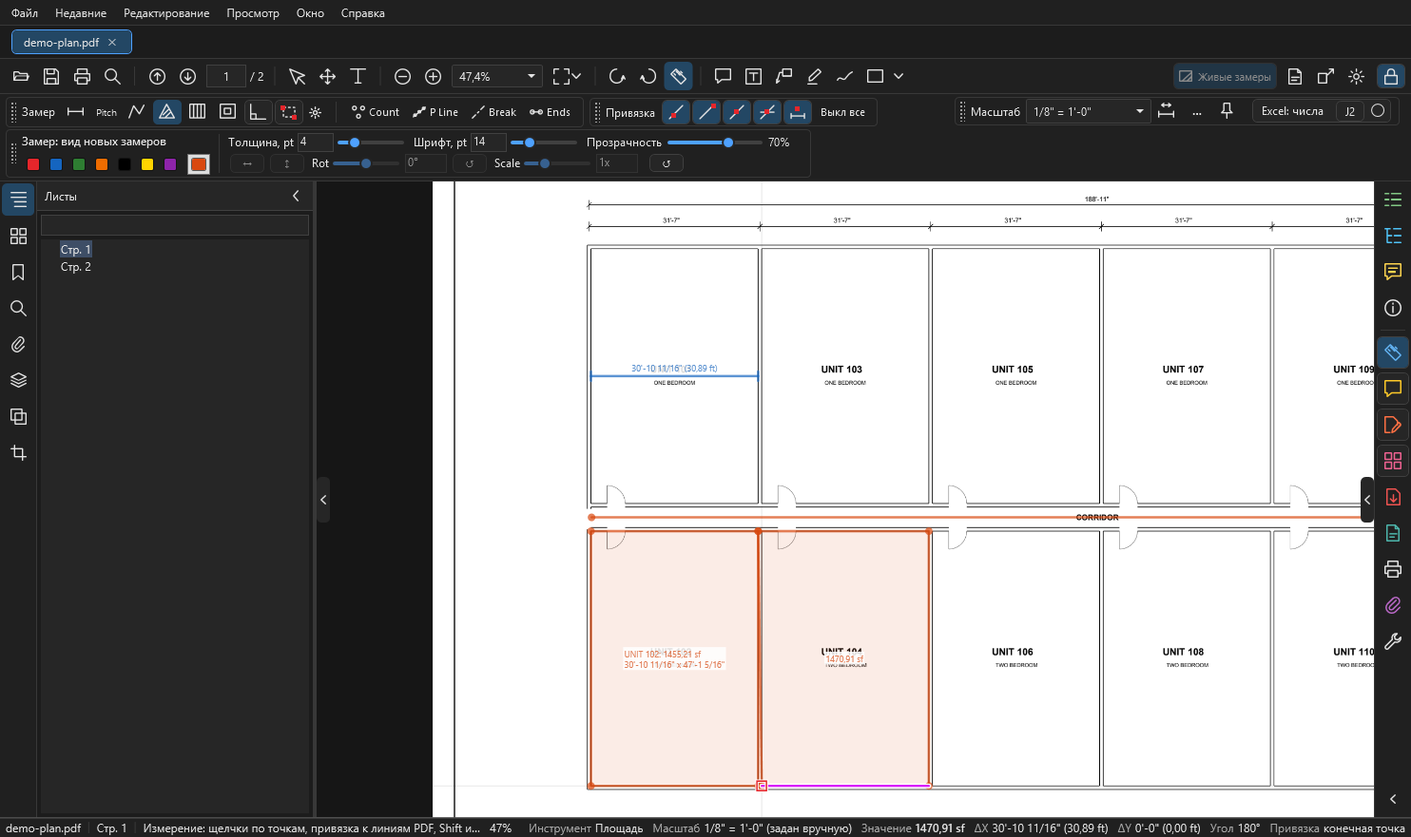
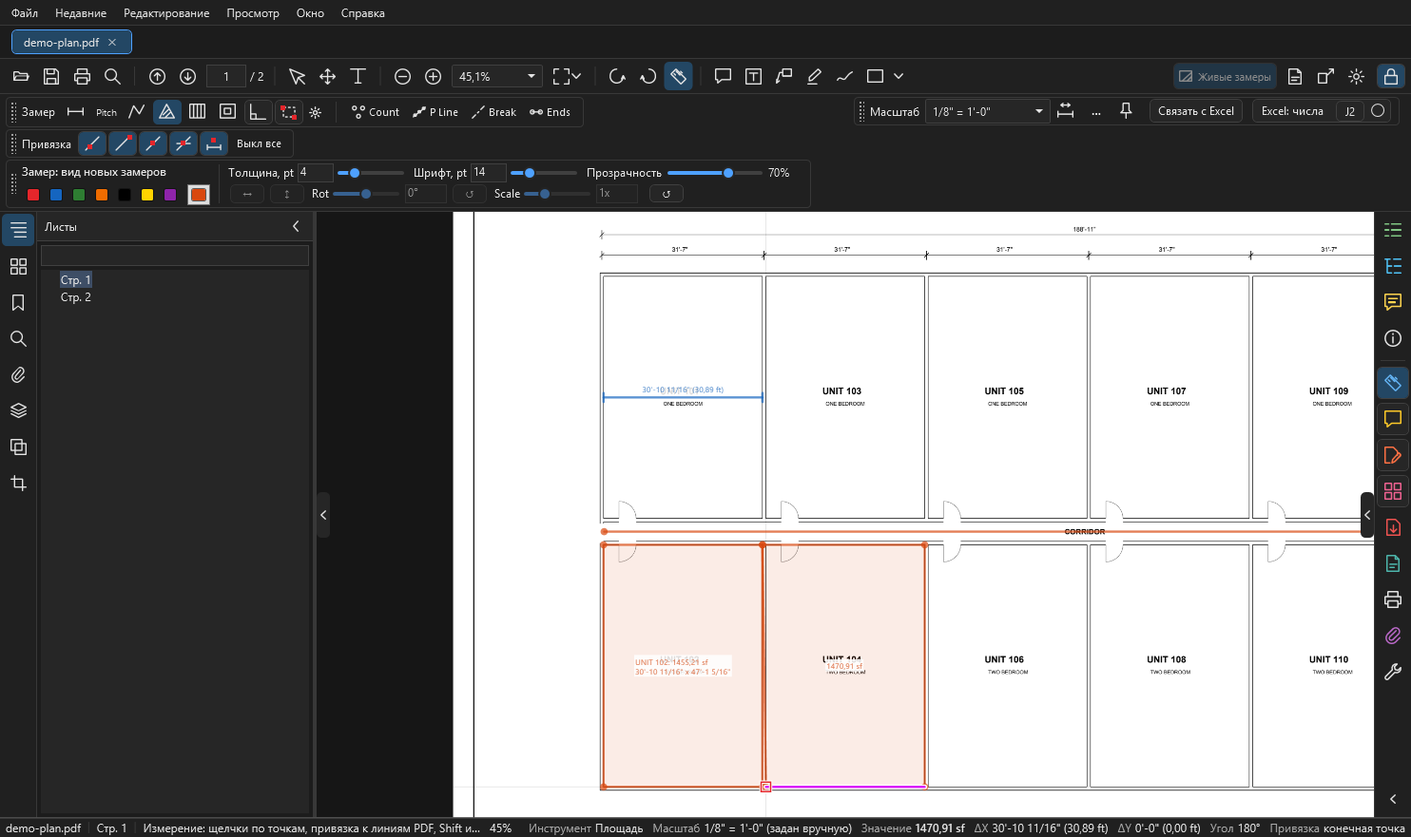
OurPDF 0.9.26: Link to Excel page, selection look
New page Связь с Excel with a nav entry: how to link a legend row to a cell, open and closed
books, the four states, joists, the list, removing links before a client gets the book. Row in
"what goes where", the hidden markups table, settings, shortcuts, where things live. The selection
look names the blue dashed box. Pictures with the Link button or the box retaken on the demo plan,
books in them made up.

diff --git a/docs/ourpdf/excel-link.md b/docs/ourpdf/excel-link.md
@@ -1,0 +1,89 @@
+# Связь с Excel
+
+Число одной строки легенды стоит в одной ячейке книги и само обновляется, когда меняются замеры. Здесь: как связать, что происходит с открытой и закрытой книгой, четыре состояния и что сделать перед сдачей книги клиенту. Обычная разовая вставка описана на странице [Измерения](measure.md#excel).
+
+!!! warning "Только в одну сторону, из OurPDF в Excel"
+    Правка ячейки замер не меняет. Открытую книгу программа никогда не сохраняет: сохраняете вы, как после обычной вставки. Пока вы не нажали "Связать с Excel", OurPDF к Excel не обращается.
+
+<figure markdown>
+  ![Кнопка Связать с Excel и значки на строках легенды](../assets/images/ourpdf/link-window.png)
+  <figcaption markdown="span">Выбрана строка Corridor. Кнопка "Связать с Excel" стоит рядом с кнопкой Excel, у связанных строк легенды значок цепочки. Книги здесь вымышленные.</figcaption>
+</figure>
+
+## Как связать { #how }
+
+1. В OurPDF выделите одну строку легенды: щелчком по строке или по её замеру на листе.
+2. В Excel откройте сохранённую книгу и щёлкните нужную ячейку.
+3. В OurPDF нажмите **Связать с Excel**. Число сразу появится в ячейке.
+
+Полезно знать:
+
+- Кнопка стоит в блоке "Масштаб", при открытом замке приходит в блоке вида вместе с выделением.
+- Та же команда: правая кнопка по строке легенды, меню `Экспорт PDF` на полосе справа. Клавиши по умолчанию нет, её можно [назначить](shortcuts.md#remap).
+- Число такое же, как при экспорте "только числа": те же единицы, знаки и J2.
+- Если в ячейке уже что-то есть, программа сначала спросит.
+
+## Как обновляется { #update }
+
+| Что случилось | Что происходит |
+| --- | --- |
+| книга открыта | ячейка обновляется сразу, после короткой паузы. Лист и выделение в Excel остаются на месте. Запись очищает отмену (++ctrl+z++) самого Excel |
+| книга закрыта | связь ждёт в состоянии "Ожидает". Число записывается по ++ctrl+s++ или по команде "Обновить ссылки": в скрытом Excel с выключенными макросами, с резервной копией книги в папке программы, `%LOCALAPPDATA%\OurPDF\excel-link-backups`. Рядом с книгой ничего не появляется |
+| вставили строки в Excel | связь держится за скрытое имя в книге, оно идёт за ячейкой. Адрес программа не угадывает |
+| переименовали строку легенды или сменили ей цвет | связь идёт за ней |
+| скрыли замеры в легенде | **они входят в число**, как и в итог легенды: скрыть значит только убрать с экрана |
+| закрыли и открыли файл | связи на месте. Они хранятся в профиле, а не в PDF, не шаг ++ctrl+z++ и не несохранённое изменение. Ответ "Нет" при закрытии файла их не отбрасывает |
+
+## Состояния { #states }
+
+<figure markdown>
+  ![Значки связей на строках легенды](../assets/images/ourpdf/link-legend.png){ width="420" }
+  <figcaption markdown="span">Цвет значка показывает худшее состояние связей строки. Подсказка значка: книга, лист, ячейка, последнее число, причина.</figcaption>
+</figure>
+
+| Состояние | Значок | Что значит | Что делать |
+| --- | --- | --- | --- |
+| **Связано** (Linked) | цвета текста | в ячейке число этой строки | ничего |
+| **Ожидает** (Pending) | жёлтый | новое число ещё не записано: книга закрыта, Excel занят или правится ячейка, файл занят, только для чтения или пропал, у строки нет масштаба | закрытая книга: ++ctrl+s++ или "Обновить ссылки". Занятый Excel: программа повторит сама. Файл пропал: "Указать новый путь...". Причина написана в списке связей |
+| **Конфликт** (Conflict) | оранжевый | ячейку изменили вручную, программа её не трогает | "Перезаписать ячейку" или "Оставить ячейку и разорвать" |
+| **Обрыв** (Broken) | красный | строку легенды удалили, ячейку удалили (`#REF!`) или у joists стало другое число длин. Ничего не пишется, ячейка остаётся как есть | удалённую строку вернёт ++ctrl+z++. Иначе разорвите связь и свяжите заново |
+
+## Joists: два числа { #joists }
+
+У строки joists на каждую длину два числа: штуки и длина. "Связать с Excel" спрашивает, какое идёт в эту ячейку; если длин несколько, в списке есть и итоги. Для второго числа щёлкните другую ячейку и нажмите кнопку ещё раз.
+
+## Все связи файла { #list }
+
+<figure markdown>
+  ![Окно Ссылки Excel](../assets/images/ourpdf/link-list.png)
+  <figcaption markdown="span">"Все ссылки Excel...": где каждая связь и в каком она состоянии. Две кнопки конфликта видны, когда выбрана такая строка.</figcaption>
+</figure>
+
+| Кнопка | Что делает |
+| --- | --- |
+| Перейти к ячейке | показывает ячейку в Excel, закрытую книгу сначала открывает |
+| Разорвать | связи больше нет, число остаётся в ячейке. Если книга закрыта, её скрытое имя останется до "Удалить все ссылки" |
+| Обновить ссылки | записывает всё, что ждёт, также в закрытые книги |
+| Указать новый путь... | книгу перенесли или переименовали |
+| Удалить все ссылки из этой книги... | см. ниже |
+
+!!! warning "Перед сдачей книги клиенту"
+    "Все ссылки Excel...", строка этой книги, **"Удалить все ссылки из этой книги..."**. Числа остаются в ячейках, скрытые имена уходят, также сделанные другими файлами и OurPlanCore.
+
+## Настройки { #settings }
+
+Настройки, раздел "Ссылки на Excel":
+
+| Настройка | По умолчанию |
+| --- | --- |
+| Открытую книгу обновлять сразу | вкл |
+| Закрытую книгу обновлять при ++ctrl+s++ | вкл |
+| Резервных копий на книгу | 5, от 1 до 50 |
+| Пауза перед записью в открытую книгу | 800 мс, от 100 до 10000 |
+| Предел времени для закрытой книги | 180 с, от 15 до 1800 |
+
+## См. также
+
+- [Измерения](measure.md#excel): разовая вставка в открытую книгу и J2
+- [Легенда](measure.md#legend): строки, скрытие, переименование
+- [Что куда попадает](comments-save.md#where)

diff --git a/docs/ourpdf/index.md b/docs/ourpdf/index.md
@@ -1,6 +1,6 @@
 # OurPDF
 
-OurPDF - программа для просмотра и разметки строительных чертежей в PDF. Окно и комментарии устроены как в Adobe Acrobat, а замеры как в OurPlanCore: те же клавиши `R`, `L`, `A`, `J`, `X`, Box двумя углами, Tab по линии чертежа, вырезы из площади и joists. Описание сверено с OurPDF 0.9.25 (ноябрь 2026).
+OurPDF - программа для просмотра и разметки строительных чертежей в PDF. Окно и комментарии устроены как в Adobe Acrobat, а замеры как в OurPlanCore: те же клавиши `R`, `L`, `A`, `J`, `X`, Box двумя углами, Tab по линии чертежа, вырезы из площади и joists. Описание сверено с OurPDF 0.9.26 (ноябрь 2026).
 
 <figure markdown>
   ![Окно OurPDF с открытым демо-листом](../assets/images/ourpdf/window.png)
@@ -10,7 +10,7 @@ OurPDF - программа для просмотра и разметки стр
 ## Что умеет и чего не делает
 
 - Открывает PDF вкладками, листает, ищет текст, показывает слои, закладки и вложения.
-- Меряет длины, ломаные, площади с вырезами, joists / rafters и штуки (Count) по масштабу листа; итог виден на листе, в легенде, в списке и выгружается в Excel.
+- Меряет длины, ломаные, площади с вырезами, joists / rafters и штуки (Count) по масштабу листа; итог виден на листе, в легенде, в списке и выгружается в Excel; строку легенды можно [связать с ячейкой книги](excel-link.md).
 - Ставит комментарии: заметки, текст, маркер, рисование от руки, фигуры, облака.
 - Записывает пометки и замеры в сам PDF по ++ctrl+s++, как Acrobat, и перед записью кладёт копию прежнего файла в резервные копии.
 - Переставляет, поворачивает, удаляет и вытаскивает страницы, правит содержимое листа (текст, картинки, объекты).
@@ -66,6 +66,7 @@ OurPDF - программа для просмотра и разметки стр
     - [Окно программы](window.md): меню, верхняя панель из блоков, замок, вкладки слева, полоса справа, строка состояния
     - [Как мерить по шагам](how-to-measure.md): стены, площади, фасады, joists, проверка, правка, выгрузка
     - [Измерения](measure.md): масштаб, привязки, расстояние, линия, площадь, Box, Tab, вырезы, joists, Count, правка точек и граней, легенда, список и Excel
+    - [Связь с Excel](excel-link.md): число строки легенды в ячейке книги, обновляется само
 
 -   **Пометки и файлы**
 
@@ -92,9 +93,10 @@ OurPDF - программа для просмотра и разметки стр
 | --- | --- |
 | Программа | ярлык OurPDF на рабочем столе |
 | Настройки, недавние файлы | `%APPDATA%\OurPDF` |
-| Пометки и масштабы, ещё не записанные в PDF, скрытые в легенде | `%APPDATA%\OurPDF\markup` |
+| Пометки и масштабы, ещё не записанные в PDF, скрытые в легенде, связи с Excel | `%APPDATA%\OurPDF\markup` |
 | Наложения и замки кропов | `%APPDATA%\OurPDF\overlays` |
 | Резервные копии перед ++ctrl+s++ | `%LOCALAPPDATA%\OurPDF\backups` |
+| Копии книг Excel перед записью | `%LOCALAPPDATA%\OurPDF\excel-link-backups` |
 | Журналы | `%LOCALAPPDATA%\OurPDF\logs` (`Справка > Открыть папку журналов`) |
 | Мост для нейросетей | `%LOCALAPPDATA%\OurPDF\agent-bridge` |
 | Снимки проектов OurPlanCore | `Документы\OurPDF\Снимки` |

diff --git a/docs/ourpdf/window.md b/docs/ourpdf/window.md
@@ -62,7 +62,7 @@
 | `Измерение`, `Комментарий` | включают инструменты, то же, что кнопки на панели сверху |
 | `Редактировать PDF` | двигать и удалять объекты листа, править и добавлять текст и картинки ([Правка PDF](pages-edit.md#edit-pdf)) |
 | `Систематизировать страницы` | сетка страниц: порядок, поворот, удаление, вставка, извлечение, перетаскивание страниц в папку ([Страницы](pages-edit.md#organize)) |
-| `Экспорт PDF` | меню: PDF с комментариями (сохранить как), выбранные страницы в новый PDF, замеры в Excel, снимок проекта из `.ourplan` |
+| `Экспорт PDF` | меню: PDF с комментариями (сохранить как), выбранные страницы в новый PDF, замеры в Excel, [связь с Excel](excel-link.md), снимок проекта из `.ourplan` |
 | `Снимок проекта` | снимок проекта из `.ourplan` ([Снимки OurPlanCore](pages-edit.md#snapshots)) |
 | `Печать` | ++ctrl+p++ |
 | `Вложения` | открывает вкладку "Вложения" слева |
@@ -74,7 +74,7 @@
 
 <figure markdown>
   ![Верхняя панель целиком](../assets/images/ourpdf/top-panel.png)
-  <figcaption markdown="span">Раскладка как задумана, окно шириной около 1900 точек. В первой линии обычные кнопки и блок "Замер", во второй слева "Привязка" и вид замеров, справа "Масштаб" с Excel. Если окну не хватает ширины, блок "Замер" переходит во вторую линию и возвращается, когда место появится.</figcaption>
+  <figcaption markdown="span">Раскладка как задумана, окно шириной около 1900 точек. В первой линии обычные кнопки и блок "Замер", во второй слева "Привязка" и вид замеров, справа "Масштаб" с кнопками "Связать с Excel" и Excel. Если окну не хватает ширины, блок "Замер" переходит во вторую линию, "Привязка" на линию ниже, и они возвращаются, когда место появится.</figcaption>
 </figure>
 
 <figure markdown>
@@ -100,8 +100,8 @@
 </figure>
 
 <figure markdown>
-  ![Блок Масштаб с Excel](../assets/images/ourpdf/block-scale.png){ width="500" }
-  <figcaption markdown="span">**Масштаб и Excel**: поле масштаба листа, калибровка, `...`, булавка, затем кнопка Excel, J2 и круг формата.</figcaption>
+  ![Блок Масштаб с Excel](../assets/images/ourpdf/block-scale.png){ width="610" }
+  <figcaption markdown="span">**Масштаб и Excel**: поле масштаба листа, калибровка, `...`, булавка, затем кнопка [Связать с Excel](excel-link.md), кнопка Excel, J2 и круг формата.</figcaption>
 </figure>
 
 Если выбран только кроп, блок вида пустеет: цвет и толщина к кропу не относятся. При закрытом замке его место остаётся свободным, лист не сдвигается.
@@ -131,7 +131,7 @@
 | --- | --- |
 | закрыт | все блоки всегда на экране, в любом инструменте, лист не прыгает |
 | открыт | вторая линия скрыта, листу больше места. Кнопка-линейка приносит все блоки, повторное нажатие убирает их и включает "Выделение" |
-| открыт, выбран замер | приходит блок вида с кнопкой Excel |
+| открыт, выбран замер | приходит блок вида с кнопками "Связать с Excel" и Excel |
 | открыт, выбраны линии | ещё и блок "Замер" с Break и P Line |
 | открыт, инструмент комментария | приходит блок вида |
 

diff --git a/docs/ourpdf/view-settings.md b/docs/ourpdf/view-settings.md
@@ -49,6 +49,7 @@
 | Работа | шаг зума колесом (как в OurPlanCore: 2), число недавних файлов, показывать аннотации PDF (комментарии, штампы), живые замеры снимков OurPlanCore по умолчанию, предлагать при запуске сделать OurPDF программой по умолчанию |
 | Измерение и комментарии | см. таблицу ниже |
 | Пометки в самом PDF (Ctrl+S) | принимать пометки из PDF при открытии (замеры, карандаш, текст Acrobat и Bluebeam можно править), Ctrl+S после правки страниц и содержимого: сохранить исходный PDF под тем же именем, резервных копий на файл перед Ctrl+S (1-50), путь к папке копий и сколько там сейчас, кнопка "Открыть папку резервных копий" |
+| Ссылки на Excel | открытая книга сразу, закрытая при ++ctrl+s++, копии, пауза, предел времени ([Связь с Excel](excel-link.md#settings)) |
 | Наложение листов | цвет первого слоя на листе, непрозрачность нового слоя, память под картинки наложений, обратный слой, пунктирная рамка и значок кропов ([Наложение](overlay.md), [Кроп](crop.md)) |
 | Чистые листы | ширина и высота нового листа, список размеров бумаги ([Новые листы](crop.md#new-sheets)) |
 | Редактирование PDF | сдвиг стрелкой и ++shift++ со стрелкой (pt), пауза, в которую нажатия стрелок считаются одной правкой (мс), шрифт замены, шрифт, размер и цвет нового текста, цвет "Закрасить", ширина картинки, поставленной щелчком, максимальный размер картинки, рамка справа налево берёт и задетые объекты (как в AutoCAD) |

diff --git a/AGENTS.md b/AGENTS.md
@@ -93,7 +93,7 @@ project-root/
 1. **Главная** — `index.md`
 2. **Старт** — процесс, чек-листы, как пользоваться
 3. **OurPlanCore** - хаб 3.0 и три уровня: "Каждый день", "Продвинутое", "Идеи и планы", плюс "Справка" (клавиши, проблемы, что нового)
-4. **OurPDF** - просмотр и разметка PDF: окно, измерения (главная страница), комментарии и сохранение, страницы и правка, наложение, кроп, вид и настройки, клавиши, нейросети; сверено с OurPDF 0.9.25
+4. **OurPDF** - просмотр и разметка PDF: окно, измерения (главная страница), связь с Excel, комментарии и сохранение, страницы и правка, наложение, кроп, вид и настройки, клавиши, нейросети; сверено с OurPDF 0.9.26
 5. **Работа** - типы работ, walls, framing, sheathing, SQFTs, trims; меню не сворачивать (см. AGENT_NOTES)
 6. **Excel и DFL** - книга DFL, подписи строк, ноты, блоки, макросы, формулы
 7. **Справочник** - советы, hangers, catalogs, термины; подраздел «Редактору KB»

diff --git a/CHANGELOG.md b/CHANGELOG.md
@@ -4,6 +4,12 @@
 Workflow `.github/workflows/deploy.yml` настроен на push в `main` и ручной запуск;
 фактический результат публикации проверяется отдельно. Инструкция: [README](README.md).
 
+## 2026-11-04 - OurPDF 0.9.26: связь с Excel, вид выделения
+
+- Новая страница "Связь с Excel": как связать строку легенды с ячейкой, открытая и закрытая книга, четыре состояния, joists, список связей, удаление связей перед сдачей книги клиенту.
+- Вид выделения: синяя пунктирная рамка у выбранного замера вместе с толстой линией, белыми квадратиками и оранжевой рамкой.
+- Картинки с кнопкой "Связать с Excel" и синей рамкой сняты заново на демо-плане; книги на картинках вымышленные.
+
 ## 2026-11-04 - OurPDF: описание сверено с 0.9.25
 
 - Новая верхняя панель из блоков: ручка, "Сбросить панель", замок, сведения об измерениях в нижней строке. Плавающей карточки больше нет.

diff --git a/docs/ourpdf/how-to-measure.md b/docs/ourpdf/how-to-measure.md
@@ -103,7 +103,7 @@
 1. Замеры сохраняются сами в профиле программы, пока PDF открыт.
 2. ++ctrl+s++ записывает их в сам PDF (копия прежнего файла кладётся в резервные копии); их видно в Acrobat и Bluebeam.
 3. Итоги по типам: вкладка "Легенда" на полосе справа. Список всех замеров: вкладка "Комментарии".
-4. В открытую книгу Excel: выберите ячейку, вернитесь в OurPDF, кнопка Excel в блоке "Масштаб", ++ctrl+e++ или ++ctrl+t++ ([Excel](measure.md#excel)).
+4. В открытую книгу Excel: выберите ячейку, вернитесь в OurPDF, кнопка Excel в блоке "Масштаб", ++ctrl+e++ или ++ctrl+t++ ([Excel](measure.md#excel)). Чтобы ячейка обновлялась сама: [Связь с Excel](excel-link.md).
 5. Отдельным файлом `.xlsx`: кнопка "Замеры в Excel" в списке "Комментарии".
 
 ## 10. Сравнить два листа { #compare }

diff --git a/docs/ourpdf/comments-save.md b/docs/ourpdf/comments-save.md
@@ -100,6 +100,7 @@
 | [наложения](overlay.md) | **нет**, только в профиле | **нет** | видимые слои, под пометками | **нет** |
 | [кропы](crop.md) | в файл, штампом | в копию, штампом | в лист | только записанные в файл |
 | легенда на листе | нет | нет | нет | нет |
+| [связи с Excel](excel-link.md) | **нет**, только в профиле; ждущие числа пишутся в закрытые книги | нет, остаются у открытого файла | нет | нет |
 
 ## Печать { #print }
 

diff --git a/docs/ourpdf/shortcuts.md b/docs/ourpdf/shortcuts.md
@@ -42,6 +42,7 @@
 | ++ctrl+e++ | В открытый Excel: только числа |
 | ++ctrl+t++ | В открытый Excel: имя или цвет, число, единица |
 | нет | Экспорт замеров в файл Excel |
+| нет | [Связь с Excel](excel-link.md): связать выделенную строку, обновить ссылки, список ссылок |
 | нет | Округление joists J2 |
 | нет | Pitch, P Line, Ends |
 | нет | Поворот, отражение, поворот и масштаб выбранных замеров |
